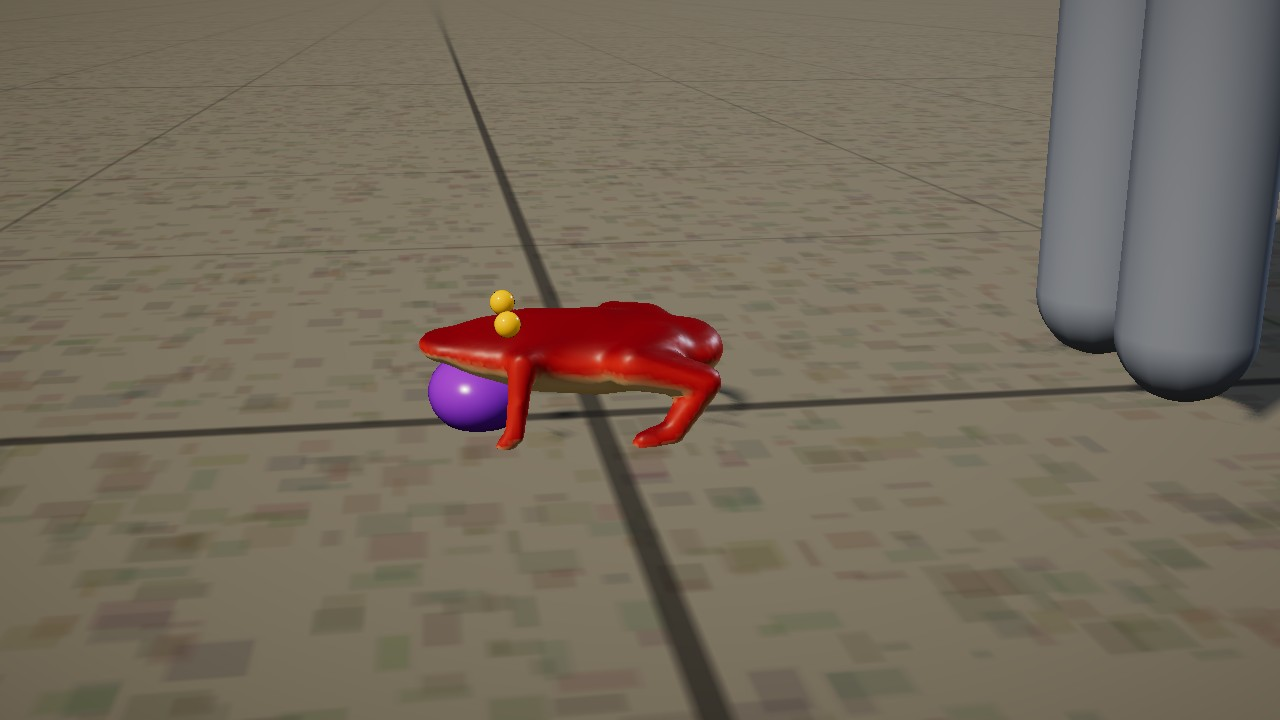
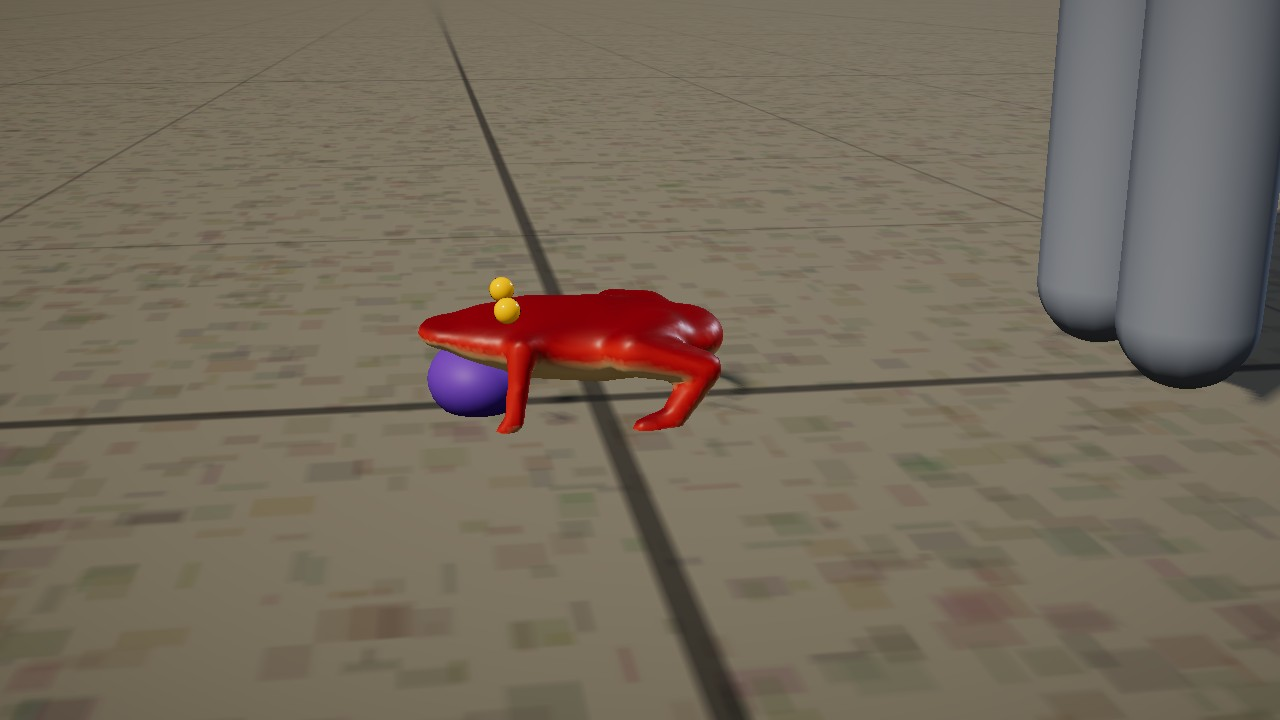
Bodies: Session 1923 — the Bellthroat's sac, 1.5x and matte (the critic, 6 Nov; OG-040)
Claude-Session: https://claude.ai/code/session_019eFMMod6aV7gdqFC3L4u1c

diff --git a/docs/prototypes/levelup/creatures.js b/docs/prototypes/levelup/creatures.js
@@ -97,8 +97,9 @@ P.head = (B, o) => {
   if (o.antlers?.mist) B.mist = { ...o.antlers.mist, tips: B.mistTips, color: B.tone(o.antlers.mist.tone || 'mist') };
   if (o.crystals) for (const sd of [1, -1]) B.bit(hn, crystals(o.crystals, S, B.tone('horn'), at(o.crystals.f, o.crystals.up, o.crystals.out * sd), sd, rng(B.g.seed + (sd > 0 ? 3 : 4))));
   if (o.beak) B.bit(hn, beak(o.beak, S, B.tone('horn'), at(1, o.beak.up || 0, 0), dir));
-  // a throat sac (the Bellthroat's): a rigid ball under the jaw that the pose fills and empties
-  if (o.sac) { const m = new THREE.Mesh(new THREE.SphereGeometry(o.sac.r * S, 24, 16), new THREE.MeshPhysicalMaterial({ color: B.tone('sac'), roughness: .25, clearcoat: .6, transmission: 0 })); m.position.copy(at(o.sac.f, -o.sac.drop, 0)); m.scale.set(1.15, .8, 1); B.bit(hn, m); B.sac = m; }
+  // a throat sac (the Bellthroat's): a rigid ball under the jaw that the pose fills and empties. Session 1923: matte, as the skin is
+  // (the critic: a clearcoat's hard highlight made it read as a plastic ball); OG-040's is blue-violet and dull
+  if (o.sac) { const m = new THREE.Mesh(new THREE.SphereGeometry(o.sac.r * S, 24, 16), new THREE.MeshStandardMaterial({ color: B.tone('sac'), roughness: Math.max(.55, B.plan.rough ?? .5) })); m.position.copy(at(o.sac.f, -o.sac.drop, 0)); m.scale.set(1.15, .8, 1); B.bit(hn, m); B.sac = m; }
   if (o.stalks) for (const sd of [1, -1]) { const p = at(o.stalks.f, o.stalks.up, o.stalks.out * sd); B.bit(hn, claw(o.stalks.r * .5, o.stalks.len, B.tone('dark'), p.clone().addScaledVector(up, -o.stalks.len), up.clone()));
     B.bit(hn, eye(o.stalks.r, o.stalks.color, p)); }
   // a brow (Session 927): a ridge of flesh across the skull over the eyes, grown into the head as one surface (the troll's)
@@ -1346,7 +1347,7 @@ export const PLANS = {
     fur: { len: .02, layers: 8, sx: 160 },
     parts: null }, // the Snowleap Hare's parts and a saddle, filled in below: a plan may be another plan at another size
   bellthroat: { name: 'Bellthroat', src: 'OG-040 (a red frog with a violet throat sac)', gaits: ['hop', 'stand'], rough: .4, mottle: 1.4, fold: .3, wag: 0, pant: 0,
-    palette: { coat: [.78, .2, .1], saddle: [.45, .07, .04], belly: [.93, .8, .55], dark: [.06, .04, .03], sac: [.56, .3, .78] },
+    palette: { coat: [.78, .2, .1], saddle: [.45, .07, .04], belly: [.93, .8, .55], dark: [.06, .04, .03], sac: [.42, .3, .66] },
     parts: [
       ['spine', { hip: [.075, -.07], chest: [.085, .07], n: 3, r: [.055, .065, .06], s: [1.3, .72], rump: .035, front: .02 }],
       ['head', { len: .1, r: .055, pitch: -4, s: [1.35, .62, 1], muzzle: { len: 1, r: .042, s: [1.4, .55, 1], taper: .75 }, eyes: [{ f: .3, up: .8, out: 1.05, r: .016, color: [.95, .7, .15] }], sac: { r: .045, f: .55, drop: 1.05 } }],

diff --git a/vendor/creatures.builder.js b/vendor/creatures.builder.js
@@ -1527,8 +1527,9 @@ P.head = (B, o) => {
   if (o.antlers?.mist) B.mist = { ...o.antlers.mist, tips: B.mistTips, color: B.tone(o.antlers.mist.tone || 'mist') };
   if (o.crystals) for (const sd of [1, -1]) B.bit(hn, crystals(o.crystals, S, B.tone('horn'), at(o.crystals.f, o.crystals.up, o.crystals.out * sd), sd, rng(B.g.seed + (sd > 0 ? 3 : 4))));
   if (o.beak) B.bit(hn, beak(o.beak, S, B.tone('horn'), at(1, o.beak.up || 0, 0), dir));
-  // a throat sac (the Bellthroat's): a rigid ball under the jaw that the pose fills and empties
-  if (o.sac) { const m = new THREE.Mesh(new THREE.SphereGeometry(o.sac.r * S, 24, 16), new THREE.MeshPhysicalMaterial({ color: B.tone('sac'), roughness: .25, clearcoat: .6, transmission: 0 })); m.position.copy(at(o.sac.f, -o.sac.drop, 0)); m.scale.set(1.15, .8, 1); B.bit(hn, m); B.sac = m; }
+  // a throat sac (the Bellthroat's): a rigid ball under the jaw that the pose fills and empties. Session 1923: matte, as the skin is
+  // (the critic: a clearcoat's hard highlight made it read as a plastic ball); OG-040's is blue-violet and dull
+  if (o.sac) { const m = new THREE.Mesh(new THREE.SphereGeometry(o.sac.r * S, 24, 16), new THREE.MeshStandardMaterial({ color: B.tone('sac'), roughness: Math.max(.55, B.plan.rough ?? .5) })); m.position.copy(at(o.sac.f, -o.sac.drop, 0)); m.scale.set(1.15, .8, 1); B.bit(hn, m); B.sac = m; }
   if (o.stalks) for (const sd of [1, -1]) { const p = at(o.stalks.f, o.stalks.up, o.stalks.out * sd); B.bit(hn, claw(o.stalks.r * .5, o.stalks.len, B.tone('dark'), p.clone().addScaledVector(up, -o.stalks.len), up.clone()));
     B.bit(hn, eye(o.stalks.r, o.stalks.color, p)); }
   // a brow (Session 927): a ridge of flesh across the skull over the eyes, grown into the head as one surface (the troll's)
@@ -2776,7 +2777,7 @@ const PLANS = {
     fur: { len: .02, layers: 8, sx: 160 },
     parts: null }, // the Snowleap Hare's parts and a saddle, filled in below: a plan may be another plan at another size
   bellthroat: { name: 'Bellthroat', src: 'OG-040 (a red frog with a violet throat sac)', gaits: ['hop', 'stand'], rough: .4, mottle: 1.4, fold: .3, wag: 0, pant: 0,
-    palette: { coat: [.78, .2, .1], saddle: [.45, .07, .04], belly: [.93, .8, .55], dark: [.06, .04, .03], sac: [.56, .3, .78] },
+    palette: { coat: [.78, .2, .1], saddle: [.45, .07, .04], belly: [.93, .8, .55], dark: [.06, .04, .03], sac: [.42, .3, .66] },
     parts: [
       ['spine', { hip: [.075, -.07], chest: [.085, .07], n: 3, r: [.055, .065, .06], s: [1.3, .72], rump: .035, front: .02 }],
       ['head', { len: .1, r: .055, pitch: -4, s: [1.35, .62, 1], muzzle: { len: 1, r: .042, s: [1.4, .55, 1], taper: .75 }, eyes: [{ f: .3, up: .8, out: 1.05, r: .016, color: [.95, .7, .15] }], sac: { r: .045, f: .55, drop: 1.05 } }],

diff --git a/js/34-creatures.js b/js/34-creatures.js
@@ -461,7 +461,9 @@ SWIMMER.Bellthroat={len:.37,col:0xc7331a,land:true,move:'hop',w:.55,h:.4};
 // e._calls going up (bellthroatCall, S1913), and the sac fills with sndBellthroat's three booms: up in `rise` s, held at `hold` over the
 // call, and on each boom (0.32 s apart, 0.26 s long) a swell of `boom` more; it empties over `fall` s after the third. Scales the sac's
 // radius, on the near body only (the kit's own pulse with the hop is under it). On the clock, so a dropped frame changes nothing
-const BELL_SAC={rise:.08,hold:.55,boom:.6,gap:.32,len:.26,fall:.3};
+// Session 1923 (the critic, 6 Nov: "a balloon", larger than the frog, with a hard highlight): the call's peak is 1.5 times the sac's
+// radius, was 2.15 (hold .55 and boom .6), and with the kit's own pulse under it the sac never passes `max` times its rest size
+const BELL_SAC={rise:.08,hold:.3,boom:.2,gap:.32,len:.26,fall:.3,max:1.5};
 function hcBellSac(t){const B=BELL_SAC,end=2*B.gap+B.len;if(!(t>=0)||t>end+B.fall)return 0;
   let k=B.hold*Math.min(1,t/B.rise)*(t>end?1-(t-end)/B.fall:1);
   for(let i=0;i<3;i++){const u=(t-i*B.gap)/B.len;if(u>0&&u<1)k+=B.boom*Math.sin(Math.PI*u);}
@@ -496,7 +498,7 @@ function hcSwimPose(rig){const H=rig.hc,e=rig.e,g=e&&e.mesh;if(!H||!g||e.dead)re
   const p=g.position;let d=rig.lx==null?0:Math.hypot(p.x-rig.lx,p.y-rig.ly,p.z-rig.lz);rig.lx=p.x;rig.ly=p.y;rig.lz=p.z;if(d>2)d=0;
   rig.v=dt>0?rig.v+(d/dt-rig.v)*Math.min(1,dt*6):rig.v;
   if(rig.land){const gait=rig.v>.02?SWIMMER[rig.name].move||'slither':'stand';if(H.C.gait!==gait)H.C.gait=gait;rig.ph+=d/Math.max(1e-3,HC.strideOf(H.C)*H.f);HC.pose(H.C,rig.ph);rig.gaitNow=gait;
-    if(H.C.sac){const c=e._calls||0;if(rig.calls===undefined)rig.calls=c;else if(c!==rig.calls){rig.calls=c;rig.callT=now;}const k=rig.callT!=null?hcBellSac(now-rig.callT):0;if(k>0){const q=H.C.sac.scale;q.set(q.x*(1+k),q.y*(1+k),q.z*(1+k));}rig.sacK=k;}
+    if(H.C.sac){const c=e._calls||0;if(rig.calls===undefined)rig.calls=c;else if(c!==rig.calls){rig.calls=c;rig.callT=now;}const k=rig.callT!=null?hcBellSac(now-rig.callT):0;if(k>0){const q=H.C.sac.scale,f=Math.max(1,Math.min(1+k,BELL_SAC.max/Math.max(q.z,1e-3)));q.set(q.x*f,q.y*f,q.z*f);}rig.sacK=k;}
     return;}
   rig.ph+=Math.max(dt*SWIMMER.idle,d/Math.max(1e-3,HC.strideOf(H.C)*H.f));HC.pose(H.C,rig.ph);rig.gaitNow=rig.v>.05?'swim':'hold';}
 // ── the wolf's motion: every joint an [x,y,z] rotation; `drop` lowers the hips ──

diff --git a/docs/devlog/1923.md b/docs/devlog/1923.md
@@ -1,0 +1,33 @@
+## v80 — Session 1923 — the Bellthroat's sac, no longer a balloon (L3; OG-040; the critic's 6 Nov run)
+The run's first item. Section I holds nothing new for the bodies builder, and the critic's run of 6 Nov (build s1294, on
+`auto/critic-1106`) answered Session 1914's question: at 2.15 times its radius the sac "is a balloon", larger than the head and body in
+front of it. It also had a hard highlight that the matte skin has nowhere else, so it read as "a plastic ball held under the chin". OG-040's
+sac is about the size of the head, blue and dull. The critic suggested about 1.5 times, with the skin's own roughness. Both are done.
+
+**What changed.**
+- `js/34-creatures.js`, `BELL_SAC`: the call's hold is .3 and each boom adds .2 more. They were .55 and .6. The peak is now 1.5 times
+  the radius, on the second boom as before, and between booms it sits at about 1.47.
+- A new `max` of 1.5 caps the call's swell together with the kit's own pulse under it. Before, a sac already swollen by the hop could
+  have been pushed past 3 times.
+- `docs/prototypes/levelup/creatures.js`, the sac: it was a `MeshPhysicalMaterial` with roughness .25 and clearcoat .6. It is now a
+  `MeshStandardMaterial` with roughness of at least .55 (the plan's own is .4), and no clearcoat.
+- The Bellthroat's `sac` tone moves from violet [.56,.3,.78] to a duller blue-violet [.42,.3,.66], as OG-040 paints it.
+- `vendor/creatures.builder.js` rebuilt.
+- The Marsh Frog's own `sac` tone, on another plan, is untouched.
+
+### Verified (headless Chromium)
+- `f4animals` 1/1 with no retry. The sac check is tightened to the new numbers: the peak over 1.35 and at most 1.51, the middle over 1.2,
+  roughness at least .55, and no clearcoat. It read 1 at rest, 1.5 at the peak (0.47 s in), 1.465 between booms, 1 after, roughness .55,
+  clearcoat 0.
+- The kit's `creatures.check.mjs --plans=bellthroat` passed everything.
+- `creatures_bundle.py --check` matches, and `parsecheck` is clean.
+- Pictures:
+  - `docs/prototypes/f4/f4-bellthroat-call.jpg`, retaken: two Bellthroats at dusk on a Dunmore green from 0.75 m, the near one at its
+    peak, the far one at rest.
+  - `docs/prototypes/levelup/creatures-bellthroat.jpg`, the kit's.
+
+### Needs eyes
+- Whether 1.5 still reads as "a huge sac" at play distance. At 4 m the frog is 0.37 m long, and the sac is now about its head.
+- For the picture the two frogs were lifted 7 cm above `worldH`. At that spot on the green they were sunk to their backs, legs under the
+  grass. The suite's ground check is on the road ahead of you, where they stand at 0. Whether frogs sink on soft ground in play (the drawn
+  terrain above the sampled height) is not chased here.
